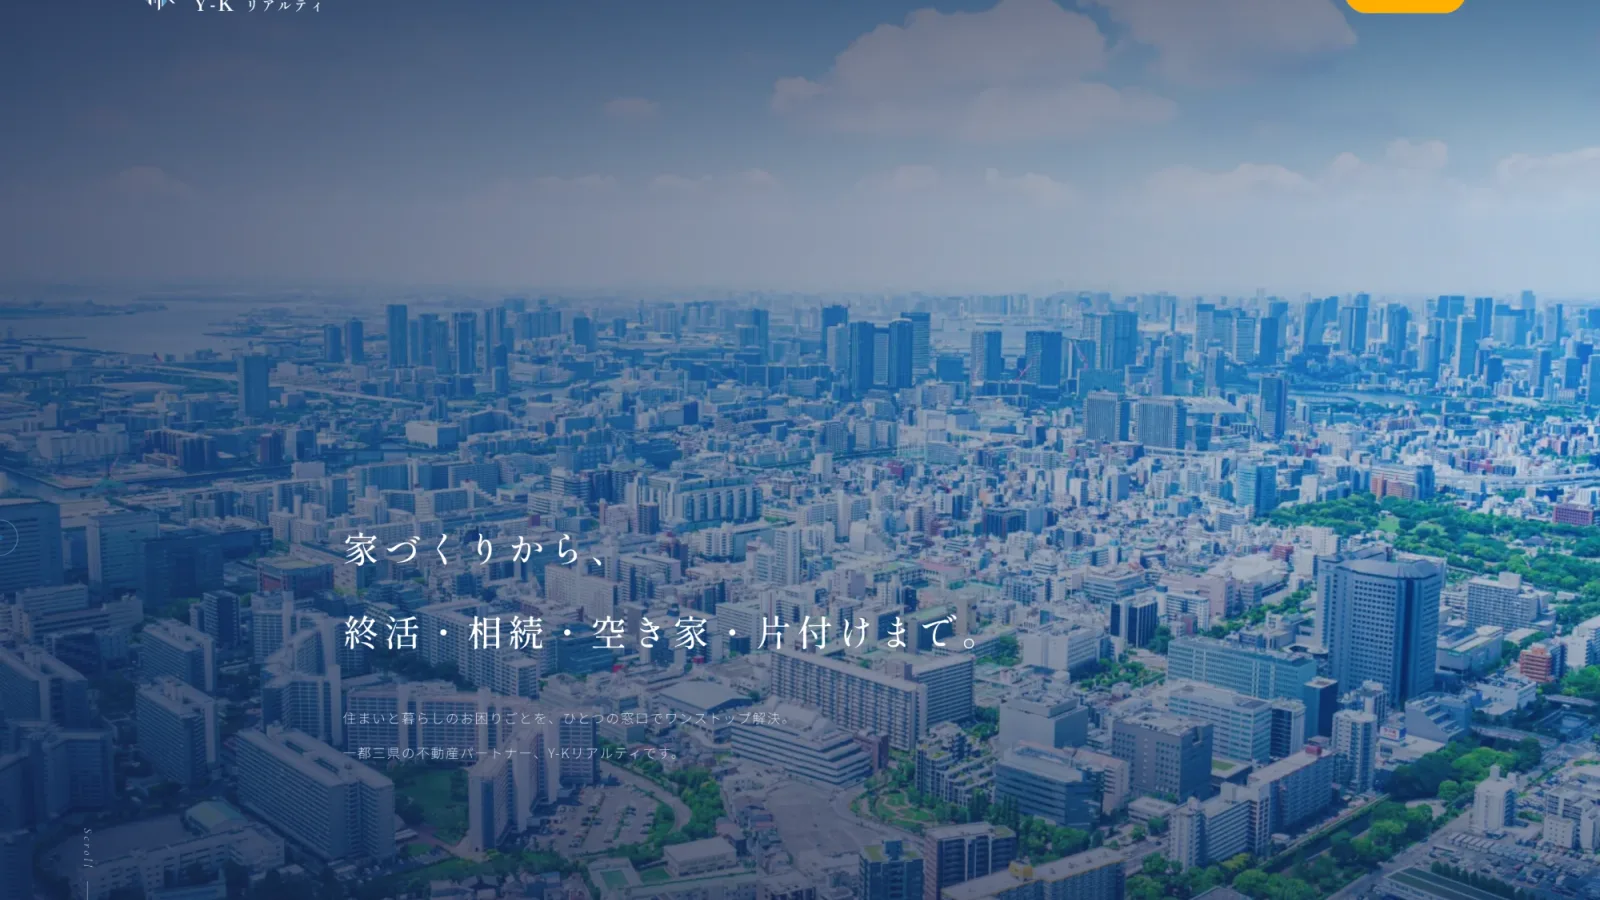
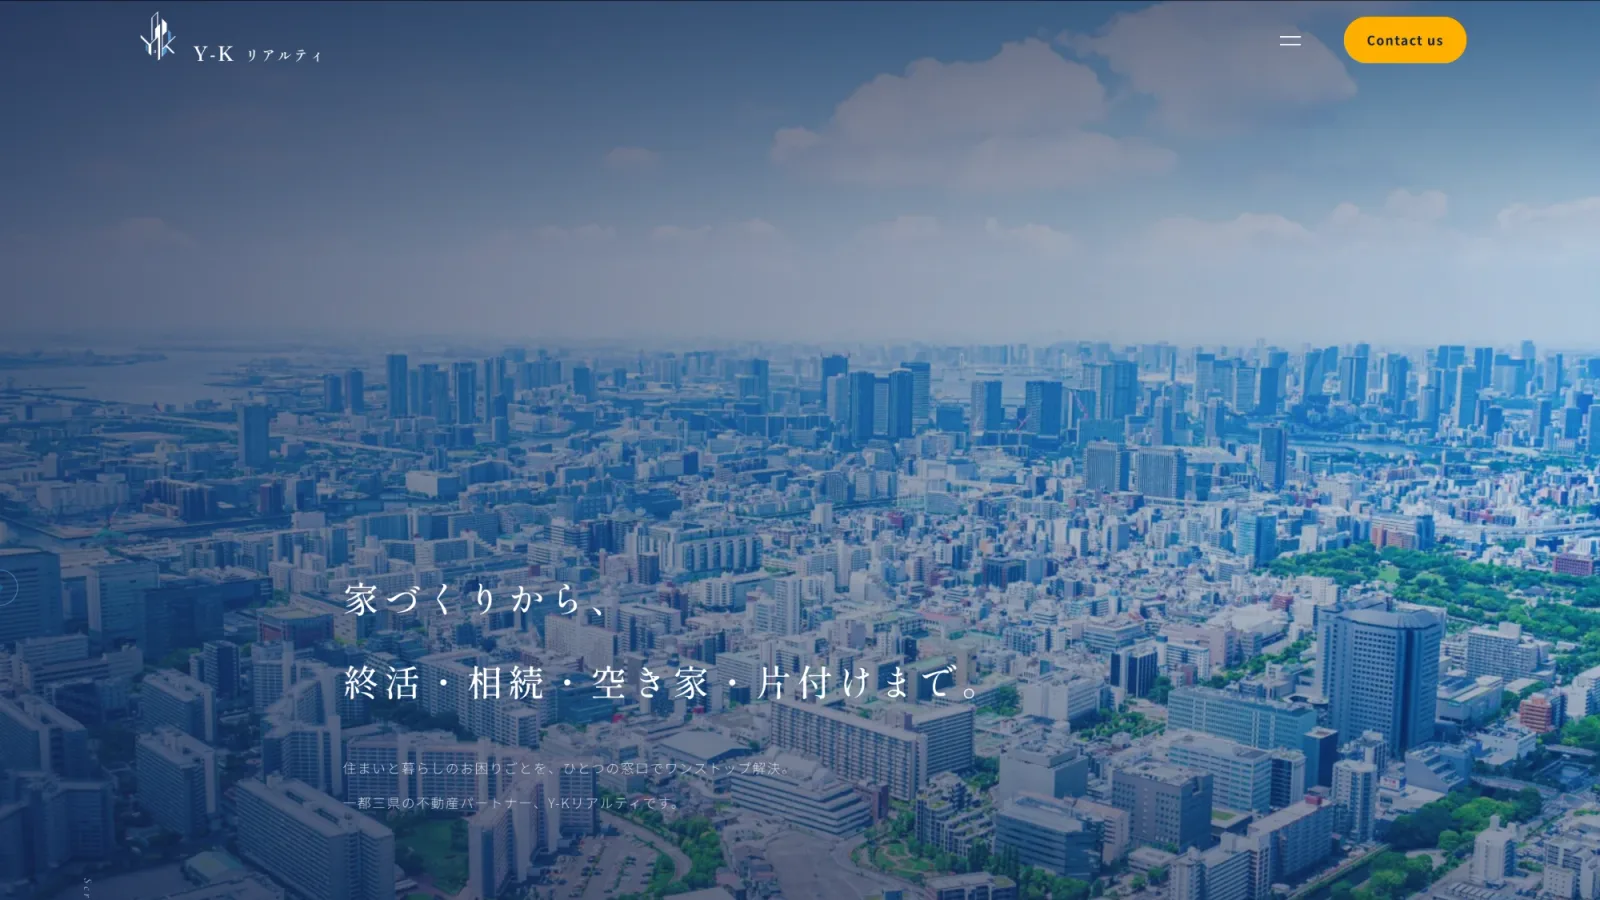
fix: keep site headers visible in work thumbnails
- Y-K のサムネイル: 16:10 のスクショを中央トリミングしていたため上端の
  ヘッダー（ロゴ・Contact）が欠けていた。上端基準で下側だけを切る形に再生成
- TOP の実績カード: 画像枠が 4:3（PC 256×192 / SP h-32）で、16:9 のスクショが
  左右で切られヘッダーのロゴが欠けていた。枠を 16:9 に統一
  （PC 256×144 / SP aspect-video）。出現アニメーションは変更なし

Claude-Session: https://claude.ai/code/session_01TrRqacVpgBdjXrDF9ya214

diff --git a/src/components/sections/WorksSection.tsx b/src/components/sections/WorksSection.tsx
@@ -74,12 +74,13 @@ function FloatingWorks({ works, scrollProgress }: { works: Work[]; scrollProgres
                 transition: { duration: 0.2 }
               }}
             >
+              {/* サムネイルは全件16:9のスクショなので枠も16:9に（4:3だと左右が切れてヘッダーのロゴが欠ける） */}
               <WorkImage
                 src={work.image}
                 alt={work.title}
                 width={256}
-                height={192}
-                className="w-full h-48 object-cover"
+                height={144}
+                className="w-full h-36 object-cover"
               />
               <div className="p-3 bg-background">
                 <p className="text-xs text-text-secondary mb-1">{work.category} • {work.year}</p>
@@ -136,8 +137,8 @@ function MobileWorks({ works }: { works: Work[] }) {
                   src={work.image}
                   alt={work.title}
                   width={400}
-                  height={256}
-                  className="w-full h-32 object-cover"
+                  height={225}
+                  className="w-full aspect-video object-cover"
                 />
                 <div className="p-2 bg-background">
                   <p className="text-[10px] text-text-secondary mb-1">{work.category} • {work.year}</p>
